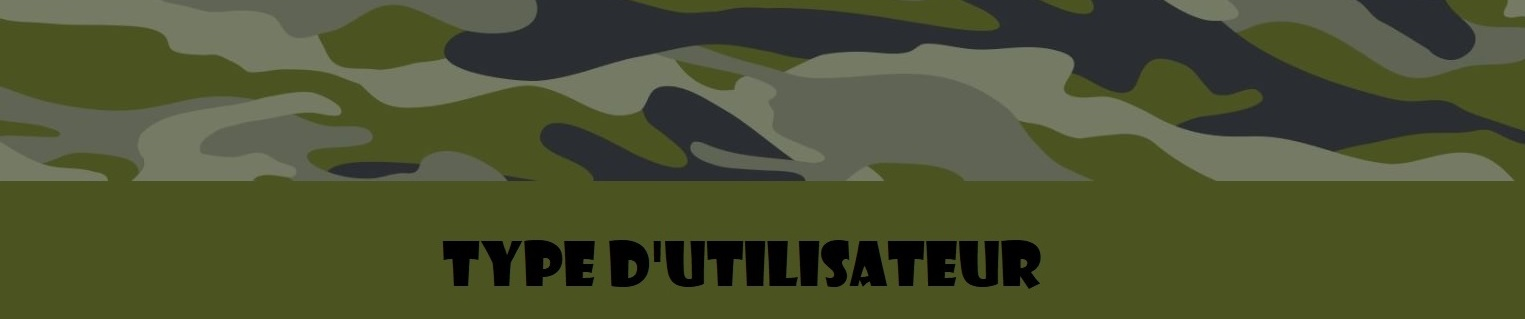
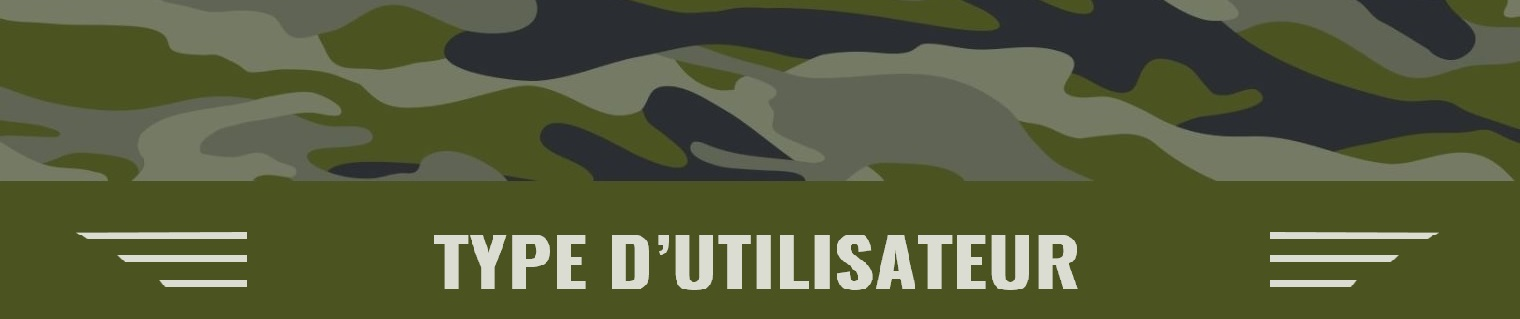
ajout contact et design

diff --git a/src/main/java/com/example/javarmes/Vue/Menu.java b/src/main/java/com/example/javarmes/Vue/Menu.java
@@ -58,6 +58,10 @@ public class Menu {
         hpy.setLayoutY(600);
         hpy.setStyle("-fx-background-color: white; -fx-text-fill: #4B5320; -fx-font-size: 16pt; -fx-padding: 10px 20px; -fx-background-radius: 10px;");
 
+        Button contact = new Button("Nous contacter");
+        contact.setLayoutX(700);
+        contact.setLayoutY(700);
+        contact.setStyle("-fx-background-color: white; -fx-text-fill: #4B5320; -fx-font-size: 16pt; -fx-padding: 10px 20px; -fx-background-radius: 10px;");
 
 
         Text menuu = new Text("M E N U");
@@ -121,13 +125,17 @@ public class Menu {
 
         Pane ppane = new Pane();
 
-        ppane.getChildren().addAll(connection, sortie,/**,image,anim,**/pres, menuu, Armenu, Armenu2, nomarque, hpy,Logo,test);
+        ppane.getChildren().addAll(connection, sortie,/**,image,anim,**/pres, menuu, Armenu, Armenu2, nomarque, hpy,Logo,test,contact);
         connection.setOnAction(event -> {
             menuconnexion();
         });
 
         sortie.setOnAction(actionEvent -> {
             Platform.exit();
+        });
+
+        contact.setOnAction(actionEvent -> {
+            contact();
         });
 
         hpy.setOnAction(actionEvent -> {
@@ -641,7 +649,7 @@ public class Menu {
         valider.setStyle("-fx-background-color: white; -fx-text-fill: #4B5320; -fx-font-size: 16pt; -fx-padding: 10px 10px; -fx-background-radius: 10px;");
 
         panne.getChildren().addAll(valider, code, txt1, txt4, coor, date, coord, trois);
-        Scene settle = new Scene(panne, 520, 520);
+        Scene settle = new Scene(panne, 800, 700);
 
         settle.getRoot().setStyle("-fx-background-color: #4B5320; "
                 + "-fx-background-radius: 5px; "
@@ -721,7 +729,11 @@ public class Menu {
 
         pannne.getChildren().addAll(txt, validation, txt4, idTF,idT,mailTF,mdpTF,mdpT);
 
-        Scene sceene = new Scene(pannne, 320, 540);
+        Scene sceene = new Scene(pannne, 800, 700);
+        sceene.getRoot().setStyle("-fx-background-color: #4B5320; "
+                + "-fx-background-radius: 5px; "
+                + "-fx-background-insets: 0px; "
+                + "-fx-effect: dropshadow(three-pass-box, rgba(0,0,0,0.8), 10, 0.0, 0, 4);"); //le code couleur pour le fond
 
         settle.setScene(sceene);
         settle.setX(0);
@@ -778,12 +790,47 @@ public class Menu {
 
         pannne.getChildren().addAll(txt, validation, idTF,idT,mdpTF,mdpT);
 
-        Scene sceene = new Scene(pannne, 320, 540);
-
+        Scene sceene = new Scene(pannne, 800, 700);
+        sceene.getRoot().setStyle("-fx-background-color: #4B5320; "
+                + "-fx-background-radius: 5px; "
+                + "-fx-background-insets: 0px; "
+                + "-fx-effect: dropshadow(three-pass-box, rgba(0,0,0,0.8), 10, 0.0, 0, 4);"); //le code couleur pour le fond
         settle.setScene(sceene);
         settle.setX(0);
         settle.setY(0);
         settle.show();
     }
+
+
+
+
+public void contact()
+{
+    Pane pannne = new Pane();
+    Stage settle = new Stage();
+
+
+    Image contact = new Image(Objects.requireNonNull(getClass().getResourceAsStream("/Images/contact.jpg")));
+    //Creating a rotated transition
+    ImageView Contact = new ImageView(contact);
+    Contact.setLayoutY(1);
+    Contact.setLayoutX(1);
+    Contact.setFitHeight(700);
+    Contact.setFitWidth(800);
+
+    pannne.getChildren().addAll(Contact);
+
+    Scene sceene = new Scene(pannne, 800, 700);
+    sceene.getRoot().setStyle("-fx-background-color: #4B5320; "
+            + "-fx-background-radius: 5px; "
+            + "-fx-background-insets: 0px; "
+            + "-fx-effect: dropshadow(three-pass-box, rgba(0,0,0,0.8), 10, 0.0, 0, 4);"); //le code couleur pour le fond
+
+    settle.setScene(sceene);
+    settle.setX(0);
+    settle.setY(0);
+    settle.show();
+}
+
 
 }
